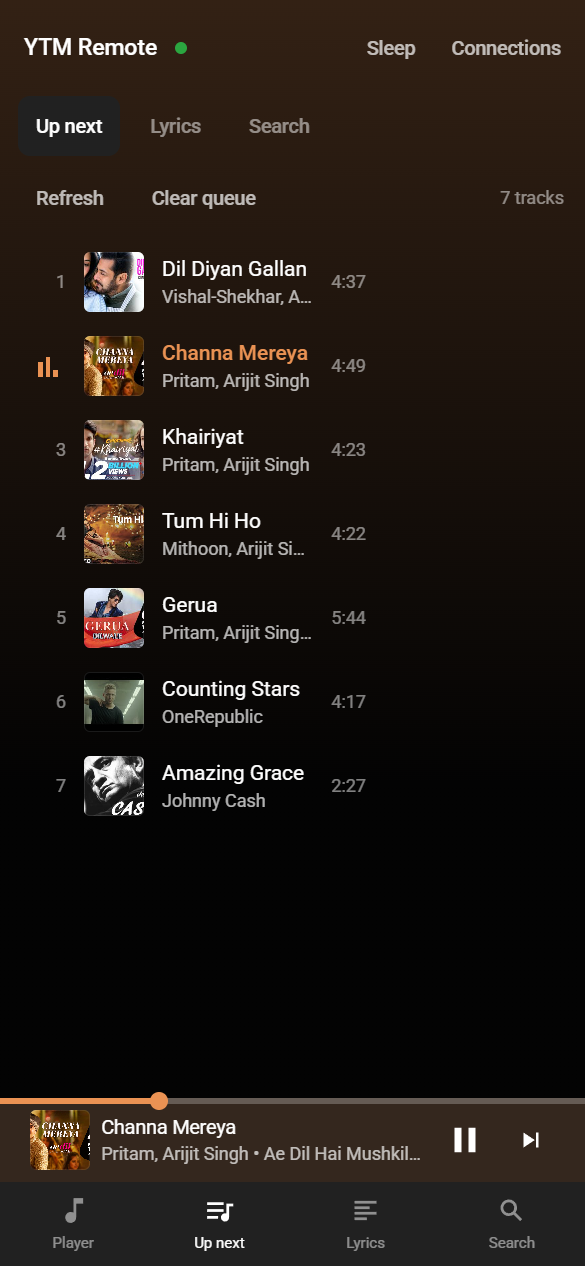
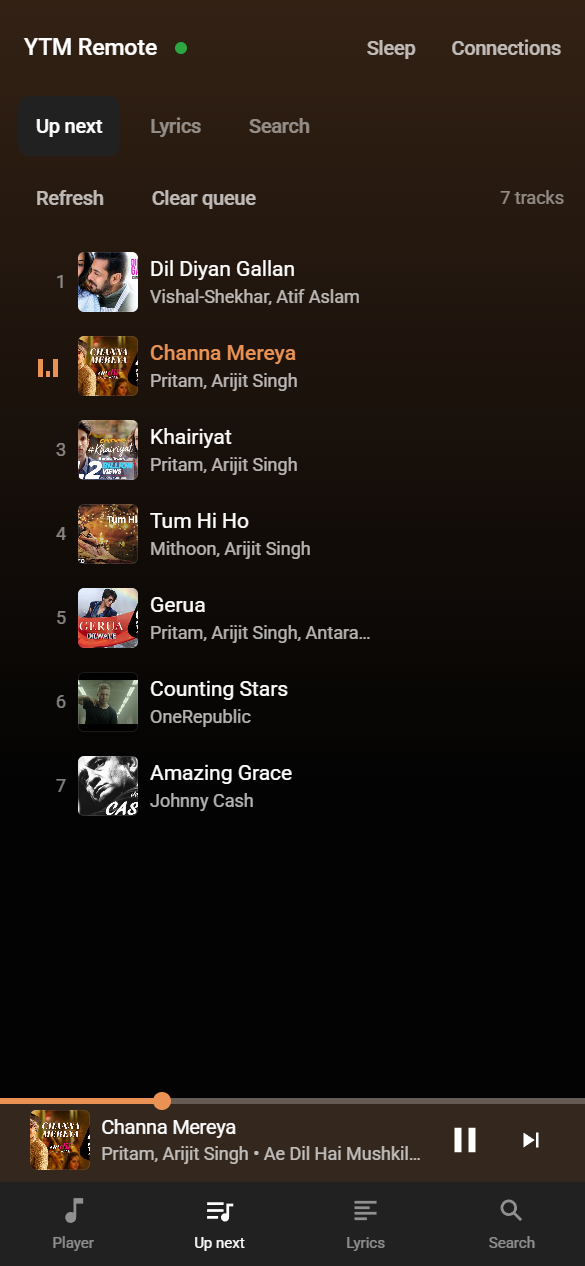
Give the phone queue its titles back
The row holds five columns and the three buttons keep 112px of them on
any screen, so under about 420px the title was down to a few characters
while the length sat beside it. Measured at 375px: the text column goes
from 86px, four of seven titles cut, to 133px with none cut.

diff --git a/index.html b/index.html
@@ -264,6 +264,14 @@ img{display:block}
 .reordering .row.dragging:hover{background:var(--surface-2)}
 .row.playing .t{color:var(--accent);font-weight:500}
 .row.playing .idx{color:var(--accent)}
+/* On a phone the row runs out of width before the title does: the three
+   buttons hold 112px whatever the screen, and touch cannot give them up
+   because it has no drag. The length is the column that yields — the player
+   bar carries it for the track that is playing, and the rest are a tap away. */
+@media(max-width:420px){
+  .row{gap:8px}
+  .row .dur{display:none}
+}
 .bars{display:flex;align-items:flex-end;gap:2px;width:24px;height:14px;justify-content:center}
 .bars i{width:3px;background:var(--accent);animation:eq .9s ease-in-out infinite}
 .bars i:nth-child(2){animation-delay:.3s}
